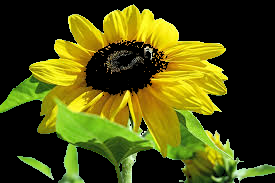
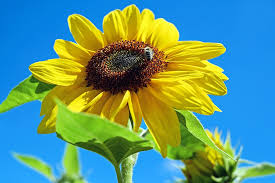
replace color use hsv notes on colorspace in opencv

diff --git a/16-replace-color-using-color-range.py b/16-replace-color-using-color-range.py
@@ -1,0 +1,159 @@
+# -*- coding: utf-8 -*-
+"""
+Created on Fri Nov  9 17:15:18 2018
+
+@author: Mahbub 
+"""
+# =============================================================================
+# 
+# Tutorial: 
+# https://stackoverflow.com/questions/46112326/what-is-the-range-of-hsv-values-for-brown-color-in-opencv
+# https://stackoverflow.com/questions/45070661/pythonopencv-how-to-plot-hsv-range/45071147#45071147
+# 
+# =============================================================================
+
+import cv2
+import numpy as np
+
+## Read
+img = cv2.imread("sunflower.jpg")
+
+## convert to hsv
+hsv = cv2.cvtColor(img, cv2.COLOR_BGR2HSV)
+
+# Define lower and uppper limits of what we call "brown"
+light_green_lo = np.array([36, 0, 0])
+light_green_hi = np.array([44, 255,255])
+
+# Mask image to only select browns
+mask=cv2.inRange(hsv,light_green_lo,light_green_hi)
+
+# Change image to red where we found brown
+img[mask>0]=(0,0,255)
+
+cv2.imwrite("replaced-sunflower.png",img)
+
+cv2.imshow("result", img)
+# =============================================================================
+# # Define lower and uppper limits of what we call "brown"
+# brown_lo=np.array([10,0,0])
+# brown_hi=np.array([20,255,255])
+# 
+# # Mask image to only select browns
+# mask=cv2.inRange(hsv,brown_lo,brown_hi)
+# 
+# # Change image to red where we found brown
+# img[mask>0]=(0,0,255)
+# 
+# cv2.imwrite("replaced.png",img)
+# =============================================================================
+
+
+
+# =============================================================================
+# ## mask of green (36,0,0) ~ (70, 255,255)
+# mask1 = cv2.inRange(hsv, (36, 0, 0), (70, 255,255))
+# 
+# mask1 = np.ones_like(mask1)
+# 
+# ## mask o yellow (15,0,0) ~ (36, 255, 255)
+# mask2 = cv2.inRange(hsv, (15,0,0), (36, 255, 255))
+# 
+# ## final mask and masked
+# mask = cv2.bitwise_or(mask1, mask2)
+# target = cv2.bitwise_and(img,img, mask=mask)
+# 
+# cv2.imwrite("target.png", target)
+# 
+# 
+# cv2.namedWindow('result', cv2.WINDOW_AUTOSIZE)
+# 
+# cv2.imshow('result',mask1)
+# =============================================================================
+
+
+
+# Create green hsv programmatically
+light_green = np.uint8([[[36, 77, 17]]])
+
+hsv_light_green = cv2.cvtColor(light_green,cv2.COLOR_BGR2HSV)
+
+print(hsv_light_green)
+# Output: [[[ 60 255 255]]]
+# Light green lower bound: [[[ 83 198 209]]]
+# Light green upper bound: [[[ 70 199  77]]]
+
+
+"""
+For HSV, Hue range is [0,179], Saturation range is [0,255] and Value range is [0,255]. 
+Different softwares use different scales. So if you are comparing OpenCV values 
+with them, you need to normalize these ranges.
+"""
+
+k = cv2.waitKey(0) & 0xFF 
+
+if k == 27:         # wait for ESC key to exit
+    cv2.destroyAllWindows()
+elif k == ord('s'): # wait for 's' key to save and exit
+    cv2.imwrite('written-img1.png',img)
+    cv2.destroyAllWindows()
+
+
+
+""" Color Space Video File
+import cv2
+import numpy as np
+
+cap = cv2.VideoCapture(0)
+
+while(1):
+
+    # Take each frame
+    _, frame = cap.read()
+
+    # Convert BGR to HSV
+    hsv = cv2.cvtColor(frame, cv2.COLOR_BGR2HSV)
+
+    # define range of blue color in HSV
+    lower_blue = np.array([110,50,50])
+    upper_blue = np.array([130,255,255])
+
+    # Threshold the HSV image to get only blue colors
+    mask = cv2.inRange(hsv, lower_blue, upper_blue)
+
+    # Bitwise-AND mask and original image
+    res = cv2.bitwise_and(frame,frame, mask= mask)
+
+    cv2.imshow('frame',frame)
+    cv2.imshow('mask',mask)
+    cv2.imshow('res',res)
+    k = cv2.waitKey(5) & 0xFF
+    if k == 27:
+        break
+
+cv2.destroyAllWindows()
+"""
+
+
+"""
+
+How to find HSV values to track?
+
+This is a common question found in stackoverflow.com. It is very simple and you
+can use the same function, cv2.cvtColor(). Instead of passing an image, you just 
+pass the BGR values you want. For example, to find the HSV value of Green, try 
+following commands in Python terminal:
+
+>>> green = np.uint8([[[0,255,0 ]]])
+>>> hsv_green = cv2.cvtColor(green,cv2.COLOR_BGR2HSV)
+>>> print hsv_green
+[[[ 60 255 255]]]
+
+Now you take [H-10, 100,100] and [H+10, 255, 255] as lower bound and upper bound respectively. Apart from this method, you can use any image editing tools like GIMP or any online converters to find these values, but don’t forget to adjust the HSV ranges.
+
+"""
+"""
+light green:
+    lower: rgb(170, 209, 47)
+    upper: rgb(36, 77, 17)
+"""    

diff --git a/16-detect-color-range-blend-image.py b/16-detect-color-range-blend-image.py
@@ -1,0 +1,44 @@
+# -*- coding: utf-8 -*-
+"""
+Created on Fri Nov  9 17:15:18 2018
+
+@author: Mahbub 
+"""
+
+
+
+import cv2
+import numpy as np
+
+## Read
+img = cv2.imread("sunflower.jpg")
+
+## convert to hsv
+hsv = cv2.cvtColor(img, cv2.COLOR_BGR2HSV)
+
+## mask of green (36,0,0) ~ (70, 255,255)
+mask1 = cv2.inRange(hsv, (36, 0, 0), (70, 255,255))
+
+mask1 = np.ones_like(mask1)
+
+## mask o yellow (15,0,0) ~ (36, 255, 255)
+mask2 = cv2.inRange(hsv, (15,0,0), (36, 255, 255))
+
+## final mask and masked
+mask = cv2.bitwise_or(mask1, mask2)
+target = cv2.bitwise_and(img,img, mask=mask)
+
+cv2.imwrite("target.png", target)
+
+
+cv2.namedWindow('result', cv2.WINDOW_AUTOSIZE)
+
+cv2.imshow('result',mask1)
+
+k = cv2.waitKey(0) & 0xFF 
+
+if k == 27:         # wait for ESC key to exit
+    cv2.destroyAllWindows()
+elif k == ord('s'): # wait for 's' key to save and exit
+    cv2.imwrite('written-img1.png',mask1)
+    cv2.destroyAllWindows()

diff --git a/15-detect-color-range-background-remove.py b/15-detect-color-range-background-remove.py
@@ -8,6 +8,7 @@ Created on Fri Nov  9 17:15:18 2018
 
 
 import cv2
+# import numpy as np
 
 ## Read
 img = cv2.imread("sunflower.jpg")
@@ -17,6 +18,8 @@ hsv = cv2.cvtColor(img, cv2.COLOR_BGR2HSV)
 
 ## mask of green (36,0,0) ~ (70, 255,255)
 mask1 = cv2.inRange(hsv, (36, 0, 0), (70, 255,255))
+
+# mask1 = np.zeros_like(mask1)
 
 ## mask o yellow (15,0,0) ~ (36, 255, 255)
 mask2 = cv2.inRange(hsv, (15,0,0), (36, 255, 255))
